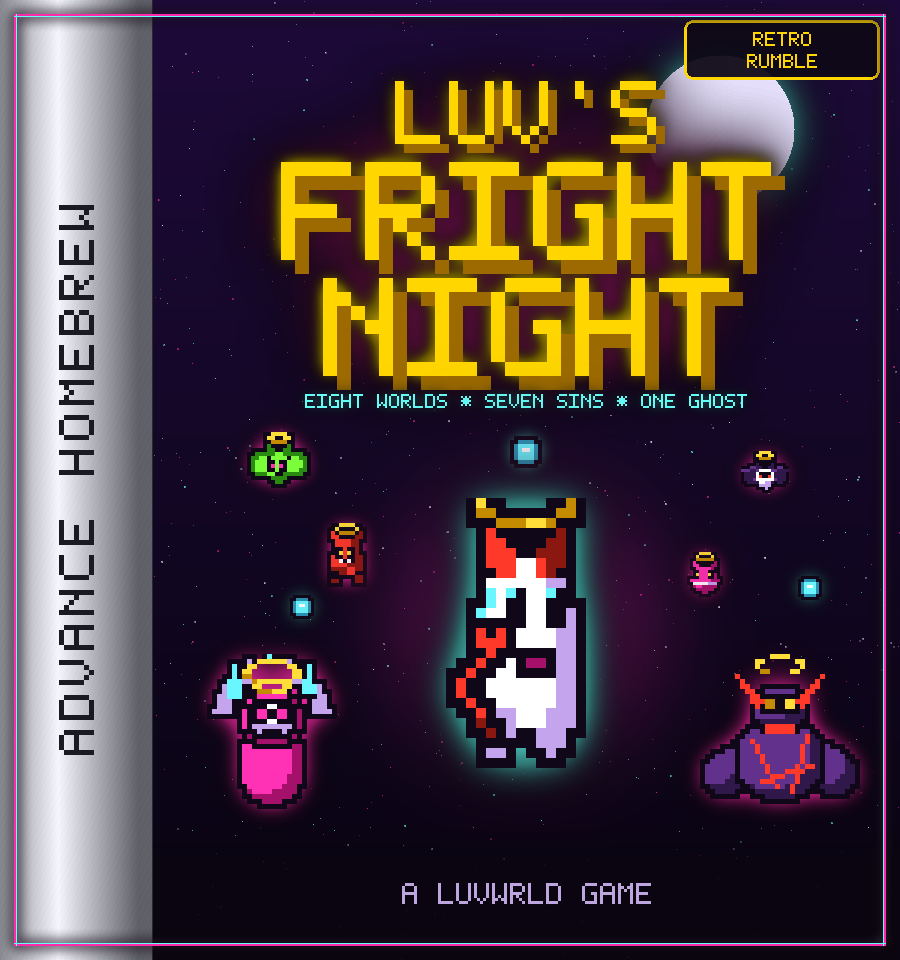
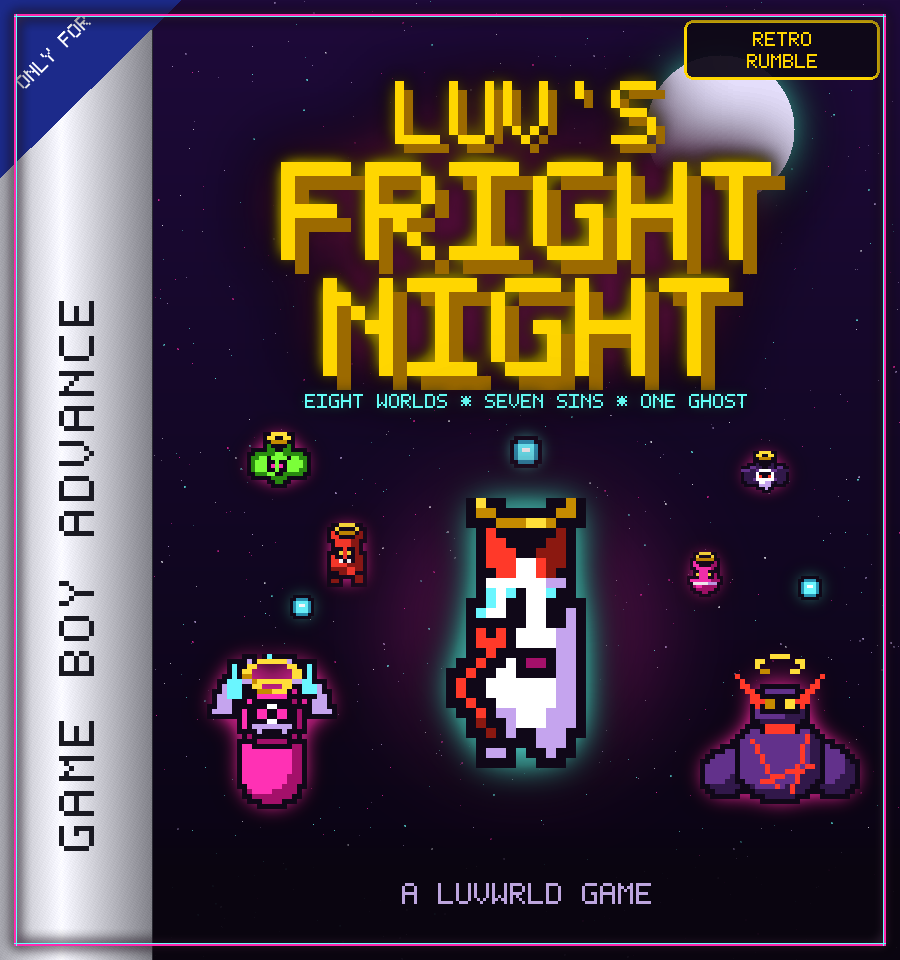
Box and cartridge, drawn to measured geometry
The cartridge and the box art have been wrong in structure, not detail,
and eyeballing them against a reference kept missing it. Both are derived
now.

The 3D box. A Game Boy Advance box is about 135mm wide and 24mm deep, so
turned by t degrees the spine projects to D*sin(t) against a front of
W*cos(t) - roughly a tenth of the front's width at any believable angle.
Mine sat at four tenths, which is not a box turned slightly, it is a cube.
It measures 0.110 now against 0.103 for a real box at thirty degrees.

The other half was which edge is nearest. Seeing the left side panel means
the box has turned its left edge toward the viewer, so that edge is the
tall one and the face tapers away to the right. Mine tapered the wrong
way, which is why it read as a wedge. With both fixed the spine and the
face's own silver band form one continuous silver region, which is the
thing that had been missing.

The cartridge. A real shell has a flat raised ridge across the top
carrying the moulded lettering, not the curved dome I had, and small tabs
standing proud at the upper corners. The label recess sits at 12% margins
either side, 21% above and 13% below. Its border is a thin printed line
now rather than the neon the box uses - it is a sticker, not a screen.

Both carry GAME BOY ADVANCE, and the cover carries the ONLY FOR corner
flash, because that is what the artwork is depicting. The strip's
lettering is sized off the strip's width for weight and its length for
[…]

Changed region(s): [[0.0, 0.0, 0.2178, 1.0]]

diff --git a/tools/gen_print.py b/tools/gen_print.py
@@ -120,68 +120,71 @@ def _cart_label(w, h):
     boxfont.centered(strip, 'RETRO RUMBLE', 0, gs.DGOLD, 2)
     img.alpha_composite(strip, (0, int(h * 0.85)))
 
-    gs.neon_frame(img, 5, 2)
+    # A printed label, not a screen - a thin border rather than the neon the
+    # box art uses.
+    ImageDraw.Draw(img).rectangle([0, 0, w - 1, h - 1],
+                                  outline=(120, 108, 150, 255), width=3)
     return img
 
 
-def cartridge(path, w=940, h=600):
+def cartridge(path, w=980, h=580):
     """
     A Game Boy Advance cartridge, seen face on.
 
-    Landscape at about 1.7 to 1, with the shallow dome moulded into the band
-    above the label, the two tabs at the upper corners and the thumb notch at
-    the foot. Proportions are taken off a real shell: the label leaves a wide
-    margin at the top - that band is where the moulded lettering goes - and
-    tighter ones at the sides and foot.
-
-    That lettering reads "GAME BOY ADVANCE" on a real cartridge and is not
-    reproduced here. The silhouette is what makes it read as a cartridge; the
-    wordmark is Nintendo's and this game is not theirs.
+    Measured off a blank shell: 1.75 to 1 landscape; a flat raised bar across
+    the top carrying the moulded lettering, with shoulders that overhang the
+    body at each end; the label recess below it with 12% margins at the sides,
+    22% above and 13% below; and the thumb notch at the foot.
     """
     img = Image.new('RGBA', (w, h), (0, 0, 0, 0))
 
-    bw, bh = 840, 494
+    bw, bh = 880, 500
     bx, by = (w - bw) // 2, (h - bh) // 2
-    shell = (58, 58, 66, 255)
-    lit = (88, 88, 98, 255)
-    dark = (34, 34, 40, 255)
+    shell = (86, 86, 94, 255)
+    lit = (124, 124, 134, 255)
+    dark = (52, 52, 58, 255)
 
     body = Image.new('RGBA', (w, h), (0, 0, 0, 0))
     bd = ImageDraw.Draw(body)
+    bar_h = int(bh * 0.15)
 
-    # Tabs at the upper corners: they clear the top edge by a few pixels only,
-    # which is what stops them reading as ears.
+    # Small tabs at the top corners, standing proud of the body's sides.
     for side in (0, 1):
-        tx = bx + 34 if side == 0 else bx + bw - 96
-        bd.rounded_rectangle([tx, by - 9, tx + 62, by + 42], radius=7,
+        tx0 = bx - 22 if side == 0 else bx + bw - 34
+        bd.rounded_rectangle([tx0, by + 6, tx0 + 56, by + bar_h + 6], radius=9,
                              fill=shell)
 
-    bd.rounded_rectangle([bx, by, bx + bw, by + bh], radius=32, fill=shell)
-    bd.rounded_rectangle([bx + 10, by + 7, bx + bw - 10, by + 19], radius=6,
-                         fill=lit)
-    bd.rounded_rectangle([bx + 10, by + bh - 20, bx + bw - 10, by + bh - 9],
-                         radius=6, fill=dark)
+    # One shell, not two stacked rectangles.
+    bd.rounded_rectangle([bx, by, bx + bw, by + bh], radius=28, fill=shell)
 
-    # The dome, moulded into the band above the label - inside the shell, not
-    # floating over its top edge.
-    bd.arc([bx + 132, by + 8, bx + bw - 132, by + 150], 203, 337, fill=lit,
-           width=5)
-    bd.arc([bx + 132, by + 15, bx + bw - 132, by + 157], 203, 337, fill=dark,
-           width=3)
+    # The ridge across the top, raised just enough to catch light.
+    bd.rounded_rectangle([bx + 14, by + 8, bx + bw - 14, by + bar_h],
+                         radius=10, fill=(96, 96, 105, 255))
+    bd.line([(bx + 22, by + 9), (bx + bw - 22, by + 9)], fill=lit, width=3)
+    bd.rounded_rectangle([bx + 12, by + bh - 20, bx + bw - 12, by + bh - 10],
+                         radius=5, fill=dark)
 
-    # Label: measured off the reference - 14% margins at the sides, 21% above,
-    # 14% below, so the band that carries the moulding stays clear.
-    lx = bx + int(bw * 0.14)
+    # The moulded lettering, sunk into the bar.
+    words = 'GAME BOY ADVANCE'
+    scale = 3
+    tw = boxfont.measure(words, scale, 2)
+    lx0 = bx + (bw - tw) // 2
+    ly0 = by + 8 + (bar_h - 8 - boxfont.HEIGHT * scale) // 2
+    boxfont.draw(body, words, lx0 + 2, ly0 + 2, lit, scale, tracking=2)
+    boxfont.draw(body, words, lx0, ly0, dark, scale, tracking=2)
+
+    # Label recess.
+    lx = bx + int(bw * 0.12)
     ly = by + int(bh * 0.21)
-    lw = bw - 2 * int(bw * 0.14)
-    lh = bh - int(bh * 0.21) - int(bh * 0.14)
+    lw = bw - 2 * int(bw * 0.12)
+    lh = bh - int(bh * 0.21) - int(bh * 0.13)
 
-    bd.rounded_rectangle([lx - 7, ly - 7, lx + lw + 6, ly + lh + 6], radius=14,
-                         fill=(24, 22, 30, 255))
+    bd.rounded_rectangle([lx - 8, ly - 8, lx + lw + 7, ly + lh + 7], radius=12,
+                         fill=(38, 38, 44, 255))
 
     label = _cart_label(lw, lh)
     mask = Image.new('L', (lw, lh), 0)
-    ImageDraw.Draw(mask).rounded_rectangle([0, 0, lw - 1, lh - 1], radius=10,
+    ImageDraw.Draw(mask).rounded_rectangle([0, 0, lw - 1, lh - 1], radius=8,
                                            fill=255)
     flat = Image.new('RGBA', (lw, lh), (0, 0, 0, 0))
     flat.paste(label, (0, 0), mask)
@@ -189,9 +192,9 @@ def cartridge(path, w=940, h=600):
 
     # The thumb notch at the foot.
     cx = bx + bw // 2
-    fy = by + bh - 34
-    bd.polygon([(cx - 32, fy), (cx + 32, fy), (cx, fy + 19)], fill=dark)
-    bd.line([(cx - 32, fy), (cx + 32, fy)], fill=lit, width=2)
+    fy = ly + lh + 10
+    bd.polygon([(cx - 30, fy), (cx + 30, fy), (cx, fy + 20)], fill=dark)
+    bd.line([(cx - 30, fy + 1), (cx + 30, fy + 1)], fill=lit, width=2)
 
     blur, at = shadow(body, 22, 0.65, (12, 18))
     img.alpha_composite(blur, at)
@@ -202,34 +205,43 @@ def cartridge(path, w=940, h=600):
 
 # ------------------------------------------------------------------ 3D box
 
-def box_3d(path, w=1180, h=1020):
+def box_3d(path, w=1120, h=1060):
     """
     The box turned a few degrees, with its spine showing.
 
-    A retail box wears the silver platform strip twice - down the left edge of
-    the face, and again on the spine, which is what you actually see on a
-    shelf. The face carries its own already, so this builds the spine to
-    match it rather than inventing a different one.
+    The geometry is derived rather than eyeballed. A Game Boy Advance box is
+    about 135mm wide and 24mm deep, so turned by t degrees the spine projects
+    to D*sin(t) against a front of W*cos(t) - about a tenth of the front's
+    width at any believable angle. An earlier attempt had it at four tenths,
+    which is not a box turned slightly, it is a cube.
+
+    The other half of it is which edge is nearest. If the left side panel is
+    visible then the box has turned its left edge toward the viewer, so that
+    edge is the tall one and the face tapers away to the right. Mine tapered
+    the wrong way, which is why it read as a wedge.
     """
     img = Image.new('RGBA', (w, h), (0, 0, 0, 0))
     front_src = Image.open(
                 os.path.join(MEDIA, 'box', 'box-front.png')).convert('RGBA')
 
-    # Right edge nearer, so taller; the spine falls away to the left.
-    front_q = [(372, 92), (1104, 40), (1104, 968), (372, 916)]
-    spine_q = [(84, 196), (372, 92), (372, 916), (84, 812)]
+    # Front face: left edge near and tall, right edge far and short.
+    front_q = [(318, 52), (1028, 108), (1028, 918), (318, 978)]
+    # Spine: 78 against a 710 front, so 11% - a box turned about 30 degrees.
+    spine_q = [(240, 94), (318, 52), (318, 978), (240, 932)]
 
-    spine = gs._platform_band(300, 920, 'LUV\'S FRIGHT NIGHT')
+    # Built close to its final aspect, so warping it does not squash the
+    # lettering: a narrow spine genuinely carries small type.
+    spine = gs._platform_band(110, 1150)
     sd = ImageDraw.Draw(spine)
-    sd.rectangle([0, 0, 6, spine.height], fill=(48, 48, 56, 255))
+    sd.rectangle([0, 0, 4, spine.height], fill=(48, 48, 56, 255))
 
     panel = Image.new('RGBA', (w, h), (0, 0, 0, 0))
     panel.alpha_composite(warp(spine, spine_q, (w, h)))
     panel.alpha_composite(warp(front_src, front_q, (w, h)))
 
-    # The fold where the two faces meet.
+    # The fold, on the near edge where the two faces meet.
     ed = ImageDraw.Draw(panel)
-    ed.line([front_q[0], front_q[3]], fill=(255, 255, 255, 70), width=3)
+    ed.line([front_q[0], front_q[3]], fill=(255, 255, 255, 60), width=2)
 
     blur, at = shadow(panel, 26, 0.7, (18, 24))
     img.alpha_composite(blur, at)
@@ -249,7 +261,11 @@ def mix(path, w=1920, h=1080):
     behind is pushed down hard so none of it competes with the three things
     that matter.
     """
-    art = Image.open(os.path.join(MEDIA, 'fanart', 'fanart.png')).convert('RGBA')
+    # A gameplay frame, not the fanart: the fanart carries the wordmark, and
+    # behind the box that showed through as a ghosted second title.
+    art = Image.open(os.path.join(
+                MEDIA, 'screenshot', 'gameplay-world-5.png')).convert('RGBA')
+    art = art.crop((0, 26, art.width, art.height))
     art = art.resize((w, h), Image.LANCZOS)
     img = Image.new('RGBA', (w, h), gs.INK)
     img.alpha_composite(Image.blend(Image.new('RGBA', (w, h), gs.INK), art, 0.34))

diff --git a/tools/gen_scrape.py b/tools/gen_scrape.py
@@ -279,13 +279,13 @@ def _box_art(w, h):
     return img
 
 
-def _platform_band(w, h, words='ADVANCE HOMEBREW'):
+def _platform_band(w, h, words='GAME BOY ADVANCE', clear_top=0):
     """
     The silver strip down the left edge of a Game Boy Advance box.
 
-    On a real box this carries the platform's own name in this exact place.
-    That wordmark is Nintendo's, so the strip says what the thing is instead
-    of whose it is.
+    Brushed metal, with the platform's name reading bottom to top - the single
+    element that makes a cover read as a Game Boy Advance game rather than a
+    poster. Sized off the strip's width for weight and its length for fit.
     """
     band = Image.new('RGBA', (w, h), (0, 0, 0, 0))
     px = band.load()
@@ -293,8 +293,8 @@ def _platform_band(w, h, words='ADVANCE HOMEBREW'):
     for x in range(w):
         t = x / float(w - 1)
         # Brushed metal: a bright line off-centre, falling away to both edges.
-        v = max(0.0, 1.0 - abs(t - 0.38) * 1.9)
-        c = int(96 + 150 * v)
+        v = max(0.0, 1.0 - abs(t - 0.40) * 1.55)
+        c = int(120 + 132 * v)
 
         for y in range(h):
             # A little vertical grain, so it reads as metal rather than a
@@ -305,16 +305,22 @@ def _platform_band(w, h, words='ADVANCE HOMEBREW'):
 
     strip = Image.new('RGBA', (h, w), (0, 0, 0, 0))
 
-    # Size to whichever runs out first, the strip's width or its length. The
-    # spine carries a longer line than the face does, and picking the size off
-    # the width alone clipped it to "'S FRIGHT NI".
-    scale = max(2, w // 26)
+    # Weight comes from the strip's width - the lettering should fill better
+    # than half of it - and then shrinks until its length fits, because the
+    # spine carries a longer line than the face does.
+    scale = max(2, int(w * 0.55) // boxfont.HEIGHT)
 
-    while scale > 2 and boxfont.measure(words, scale, 2) > h - int(w * 0.5):
+    run = h - clear_top
+
+    while scale > 2 and boxfont.measure(words, scale, 2) > run - int(w * 0.9):
         scale -= 1
 
+    # The strip is drawn lying down and then stood up, so its own width is the
+    # band's height. Reserving room at the band's top means reserving it at
+    # the strip's right-hand end, which is where the flash lands once turned.
     boxfont.centered(strip, words, (w - boxfont.HEIGHT * scale) // 2,
-                     (26, 26, 34, 255), scale, tracking=2)
+                     (26, 26, 34, 255), scale, tracking=2,
+                     cx=(h - clear_top) // 2)
     band.alpha_composite(strip.rotate(90, expand=True))
 
     d = ImageDraw.Draw(band)
@@ -335,8 +341,21 @@ def box_front(path, w=900, h=960):
     band_w = int(w * 0.17)
     art = _box_art(w - band_w, h)
     img.alpha_composite(art, (band_w, 0))
-    img.alpha_composite(_platform_band(band_w, h, 'ADVANCE HOMEBREW'),
-                        (0, 0))
+    img.alpha_composite(_platform_band(band_w, h,
+                                       clear_top=int(h * 0.20)), (0, 0))
+
+    # The corner flash a retail box carries above the strip.
+    flash = Image.new('RGBA', (w, h), (0, 0, 0, 0))
+    fd = ImageDraw.Draw(flash)
+    fd.polygon([(0, 0), (int(w * 0.20), 0), (0, int(h * 0.185))],
+               fill=(28, 42, 138, 255))
+    tag = Image.new('RGBA', (190, 34), (0, 0, 0, 0))
+    boxfont.centered(tag, 'ONLY FOR', 0, WHITE, 2)
+    turned = tag.rotate(45, expand=True, resample=Image.BICUBIC)
+    # Land the turned text on the triangle's centroid rather than its corner.
+    flash.alpha_composite(turned, (int(w * 0.20 / 3) - turned.width // 2,
+                                   int(h * 0.185 / 3) - turned.height // 2))
+    img.alpha_composite(flash)
 
     # Publisher's mark, top right, where a label would sit.
     mark = Image.new('RGBA', (196, 60), (0, 0, 0, 0))

diff --git a/THIRD-PARTY.md b/THIRD-PARTY.md
@@ -20,12 +20,33 @@ Butano ships the full licence text for every one of these in `butano/licenses/`
 once the engine is cloned. That directory is the authoritative list; the table
 above names the ones this game actually links.
 
+## References
+
+The box and cartridge artwork was drawn from scratch, but its proportions were
+measured against two fan-made blank templates:
+
+- [Game Boy Advance Cartridge Template](https://www.deviantart.com/xxabnegationxx/art/Gameboy-Advance-Cartridge-Template-344124661) by xxabnegationxx
+- [Game Boy Advance Game Cover Art Template](https://www.deviantart.com/azulejothekat/art/Game-Boy-Advance-Game-Cover-Art-Template-375107232) by azulejothekat
+
+No part of either image is used or redistributed here — every pixel in
+`scrape/media/` is drawn by `tools/gen_print.py` and `tools/gen_scrape.py`.
+They are credited because they are what the shapes were checked against.
+
 ## Trademarks
 
-"Game Boy Advance" and "GBA" are trademarks of Nintendo. This project is not
-affiliated with, endorsed by, or licensed by Nintendo. Those names appear here
-only to say, factually, which hardware the ROM runs on.
+"Game Boy Advance" and "GBA" are trademarks of Nintendo. **This project is not
+affiliated with, endorsed by, sponsored by or licensed by Nintendo.**
 
+The name appears in two places. In writing, to say factually which hardware the
+ROM runs on. And on the box art and cartridge art in `scrape/media/`, which are
+drawn in the style of a retail Game Boy Advance release — that is what the
+artwork is depicting, and the name is part of what makes it legible as such.
+
+None of that artwork is an official product, and it carries no Official
+Nintendo Seal, because that is Nintendo's to grant and it has not been granted.
 The cartridge header carries maker code `00` — unlicensed — because that is
 what this is. devkitARM's `gbafix` writes Nintendo's `01` when it is called
 without a maker code, and `tools/stamp_rom.py` corrects it after every build.
+
+If you are Nintendo and would like the artwork changed, open an issue and it
+will be changed.
